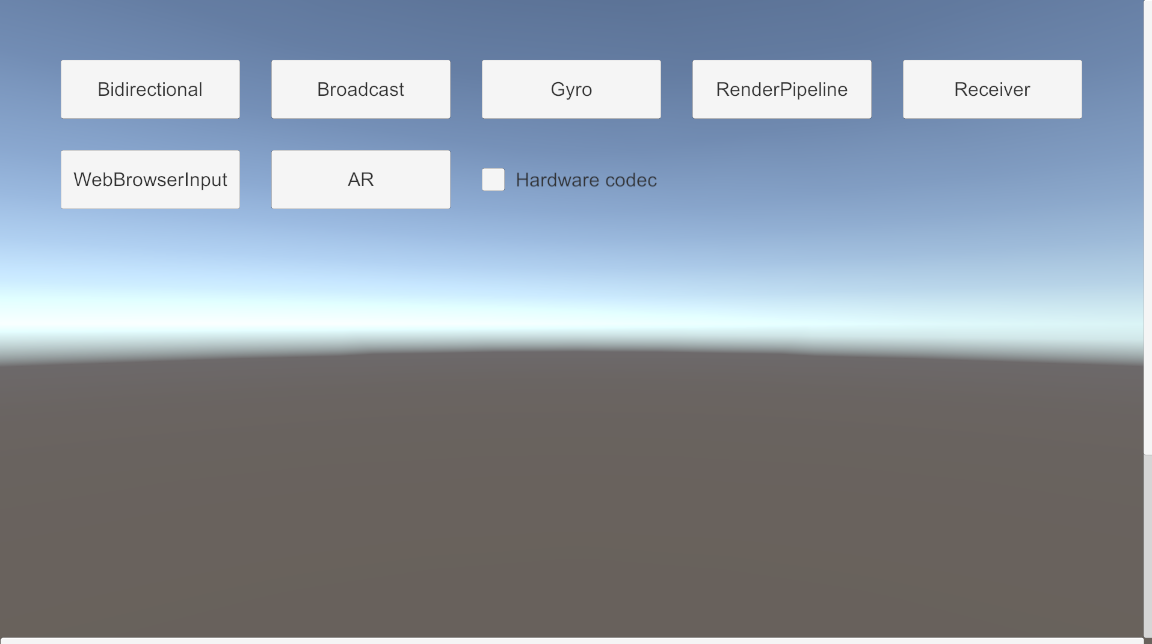
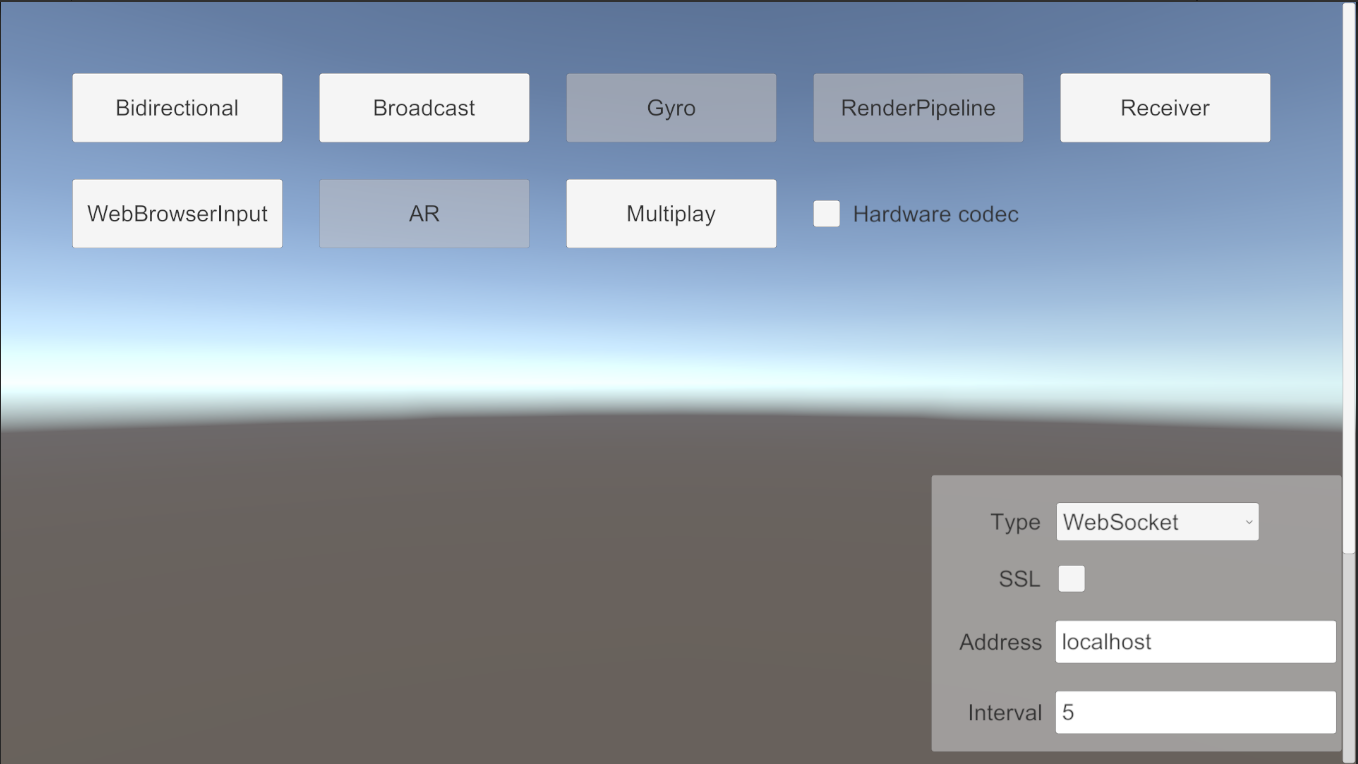
fix docs

diff --git a/com.unity.renderstreaming/Documentation~/samples.md b/com.unity.renderstreaming/Documentation~/samples.md
@@ -7,9 +7,10 @@ The package contains the following samples.
 | [Receiver](sample-receiver.md) | Displaying a video streaming from another Unity |
 | [Broadcast](sample-broadcast.md) | Streaming video and audio to multi Unity applications |
 | [Bidirectional](sample-bidirectional.md) | bi-directional(send/receive) each other's video |
+| [Multiplay](sample-multiplay.md) | Multi player game using video streaming |
 | [RenderPipeline](sample-renderpipeline.md) | Streaming video using HDRP or URP |
-| [AR Foundation](sample-arfoundation.md) | Controling a camera using AR Foundation. |
-| [Gyroscope](sample-gyroscope.md) | Controling a camera using Gyroscope. |
+| [AR Foundation](sample-arfoundation.md) | Controling a camera using AR Foundation |
+| [Gyroscope](sample-gyroscope.md) | Controling a camera using Gyroscope |
 | [Web Browser Input](sample-browserinput.md) | Streaming the video from Unity to the web browser |
 
 
@@ -28,8 +29,17 @@ Open `Menu` scene and press `Play` button, as you can see the menu for sample sc
 
 ![Sample menu](images/sample_menu_scene.png)
 
+Users can change signaling settings below during runtime.
+
+- **Signaling Type** (HTTP or Signaling)
+- **Enable/Disable SSL**
+- **Host Address**
+- **Interval (only Http signaling)**
+
+![Sample menu](images/sample_menu_setting_panel.png)
+
 ## Install samples into mobile devices 
 
-It is easy to try all samples on mobile devices if only you put sample scenes into `Scenes in Build` in Build Settings Window. `Menu` scene should be loaded as a first one so you need to rearrange scenes.
+It is easy to try all samples on mobile devices if only you put sample scenes into `Scenes in Build` in **Build Settings** Window. `Menu` scene should be loaded as a first one so you need to rearrange scenes.
 
 ![Build Settings](images/sample_buildsettings.png)

diff --git a/com.unity.renderstreaming/Documentation~/sample-multiplay.md b/com.unity.renderstreaming/Documentation~/sample-multiplay.md
@@ -16,13 +16,13 @@ Recommend enabling `Hardware Encoder support` on the `Render Streaming` inspecto
 
 2) Build a scene as a receiver (ex. [`Receiver`](sample-receiver.md) scene) in Unity Editor, and launch an application.
 
-3) Open `Broadcast` scene.
+3) Open `Menu` scene and click `Multiplay` button. 
 
-![Open Broadcast scene](images/open_broadcast_scene.png)
+![Open Multiplay scene](images/open_multiplay_scene.png)
 
-4) Specify IP address of the signaling server to the `Signaling URL` parameter on the inspector.
+4) Select **host** and click "Play" button.
 
-![Signaling url on inspector](images/broadcast_sample_signaling.png)
+![Open Multiplay scene](images/sample_multiplay_select_host.png)
 
 5) Click on the Play button in Unity Editor.
 

diff --git a/com.unity.renderstreaming/Documentation~/use-inputsystem.md b/com.unity.renderstreaming/Documentation~/use-inputsystem.md
@@ -14,7 +14,7 @@ You need to configure settings described below to use Input System. Note that di
 
 ![Input System version 1.1](images/inputsystem-version.png)
 
-2. Open **Build Settings** window, and **Player > Resolution and Presentatoin**, and enable **Run In Background**.
+2. Open **Project Settings** window, and **Player > Resolution and Presentatoin**, and enable **Run In Background**.
 
 ![Enable Run In Background](images/enable_run_in_background.png)
 
